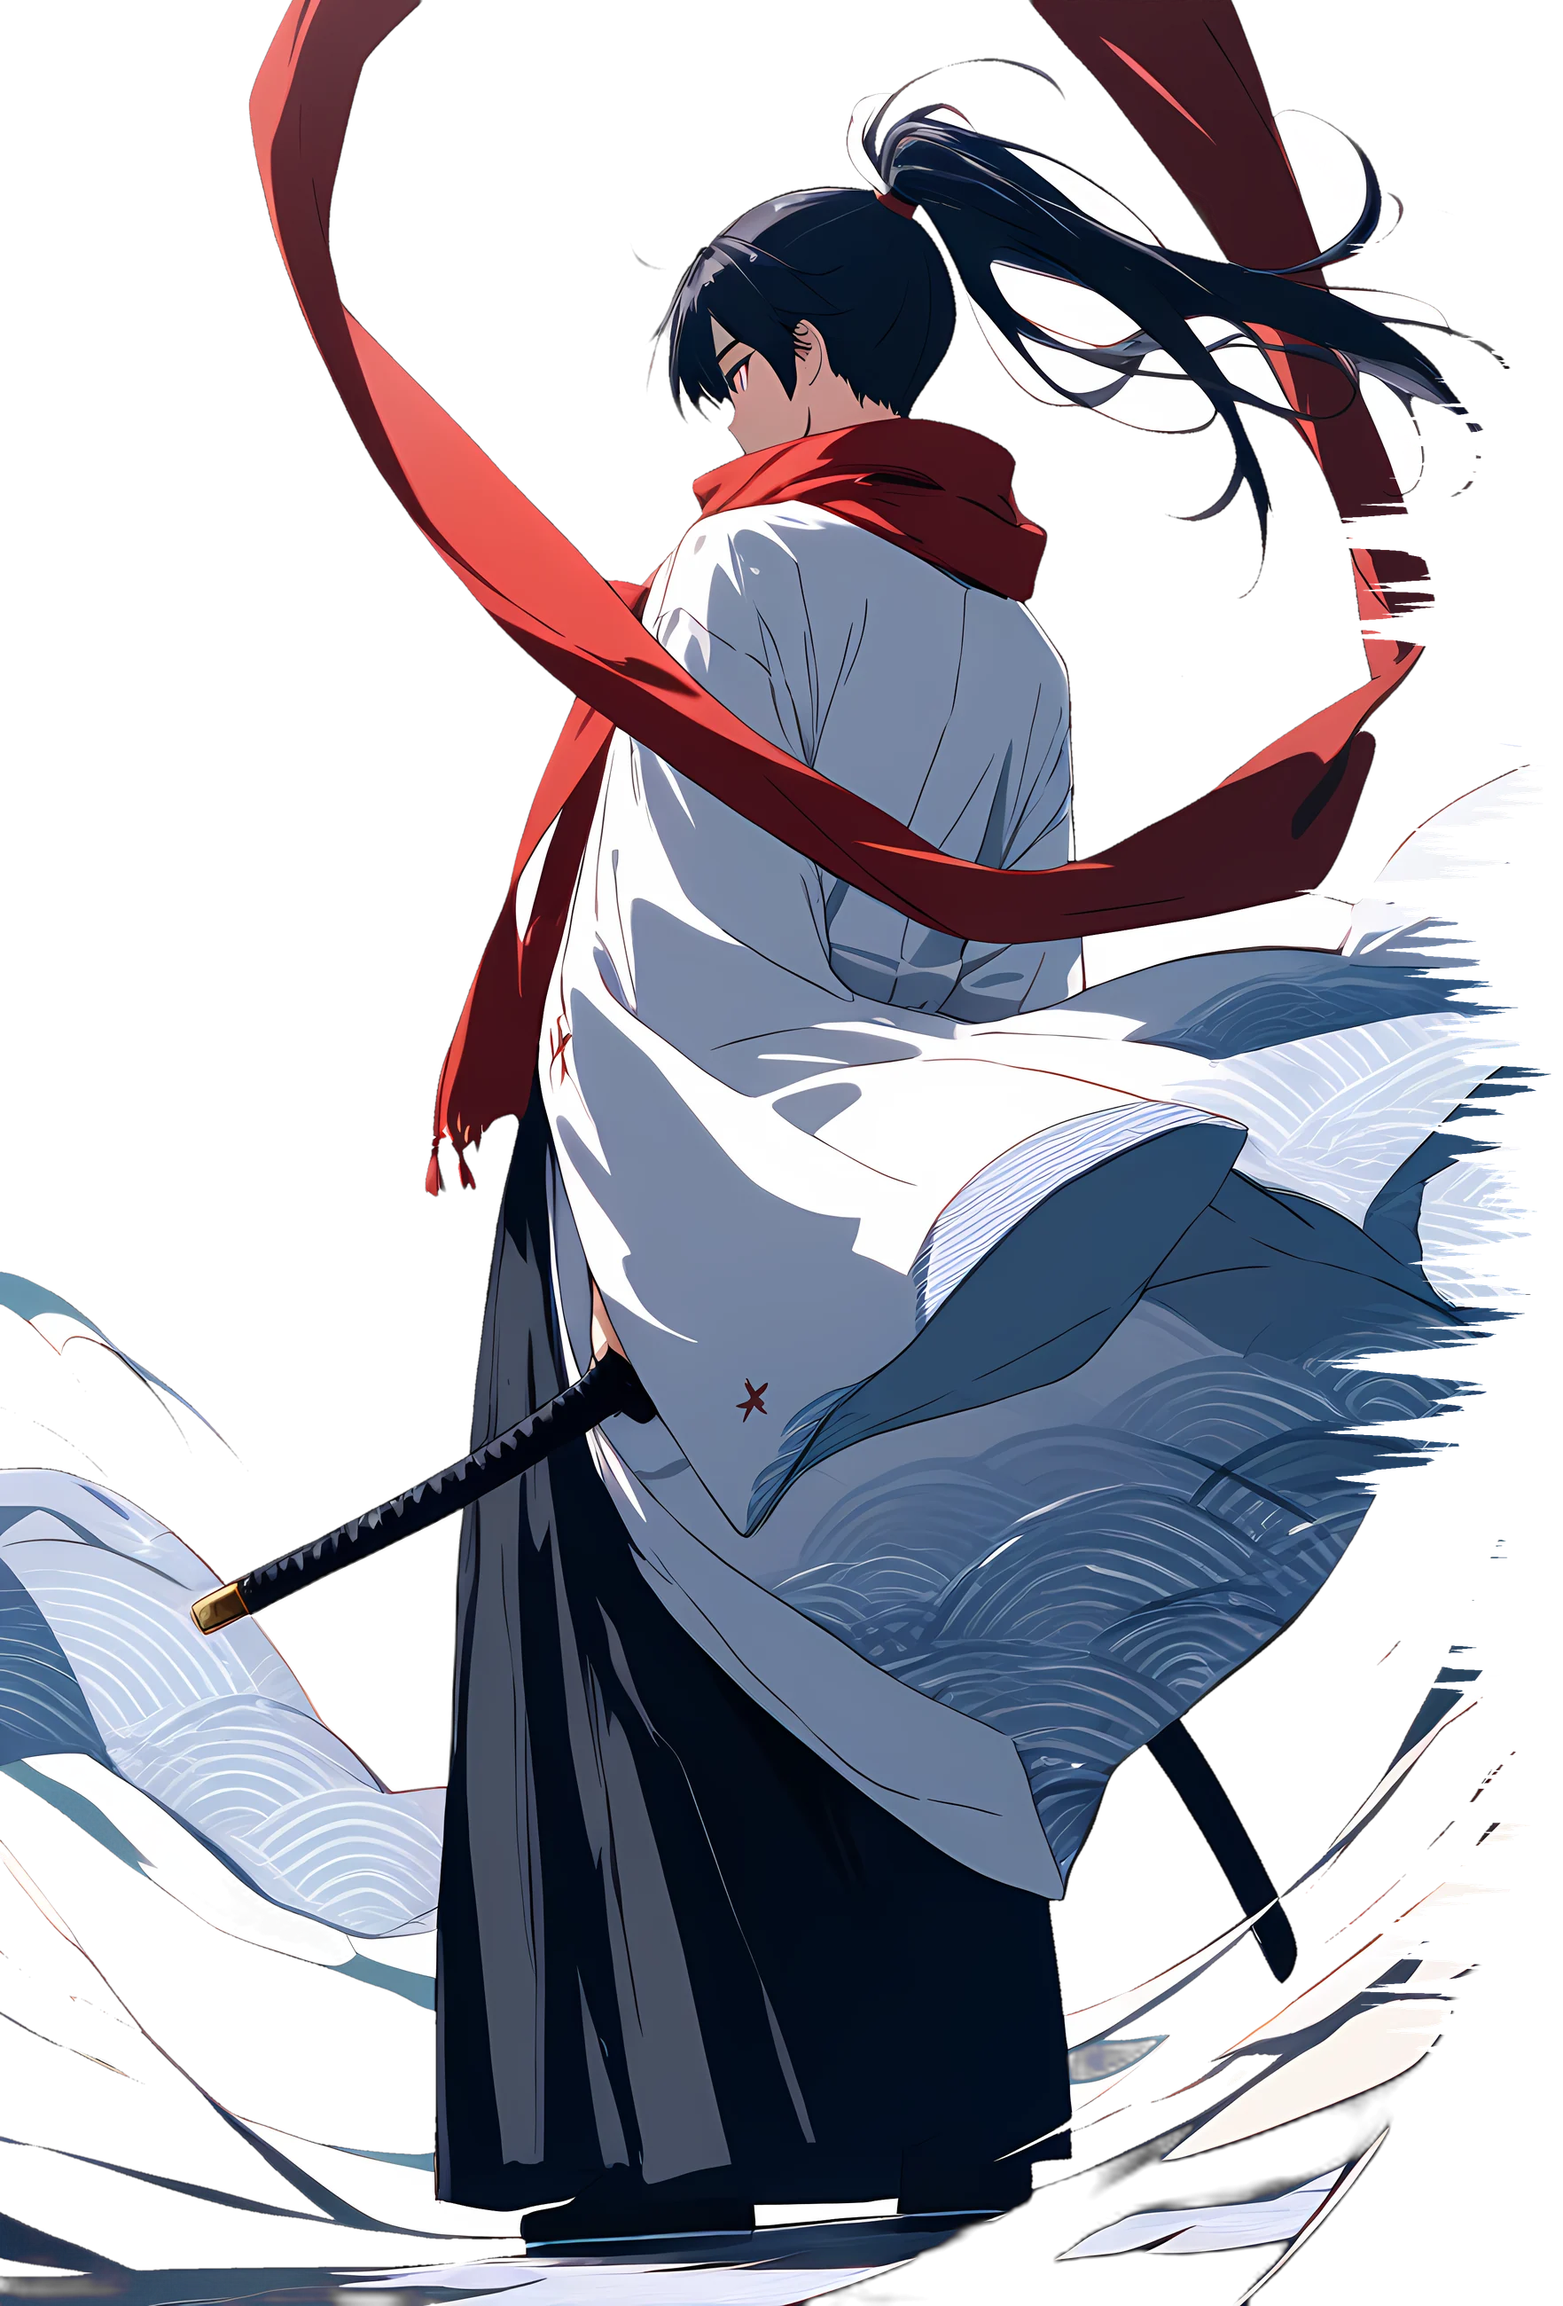
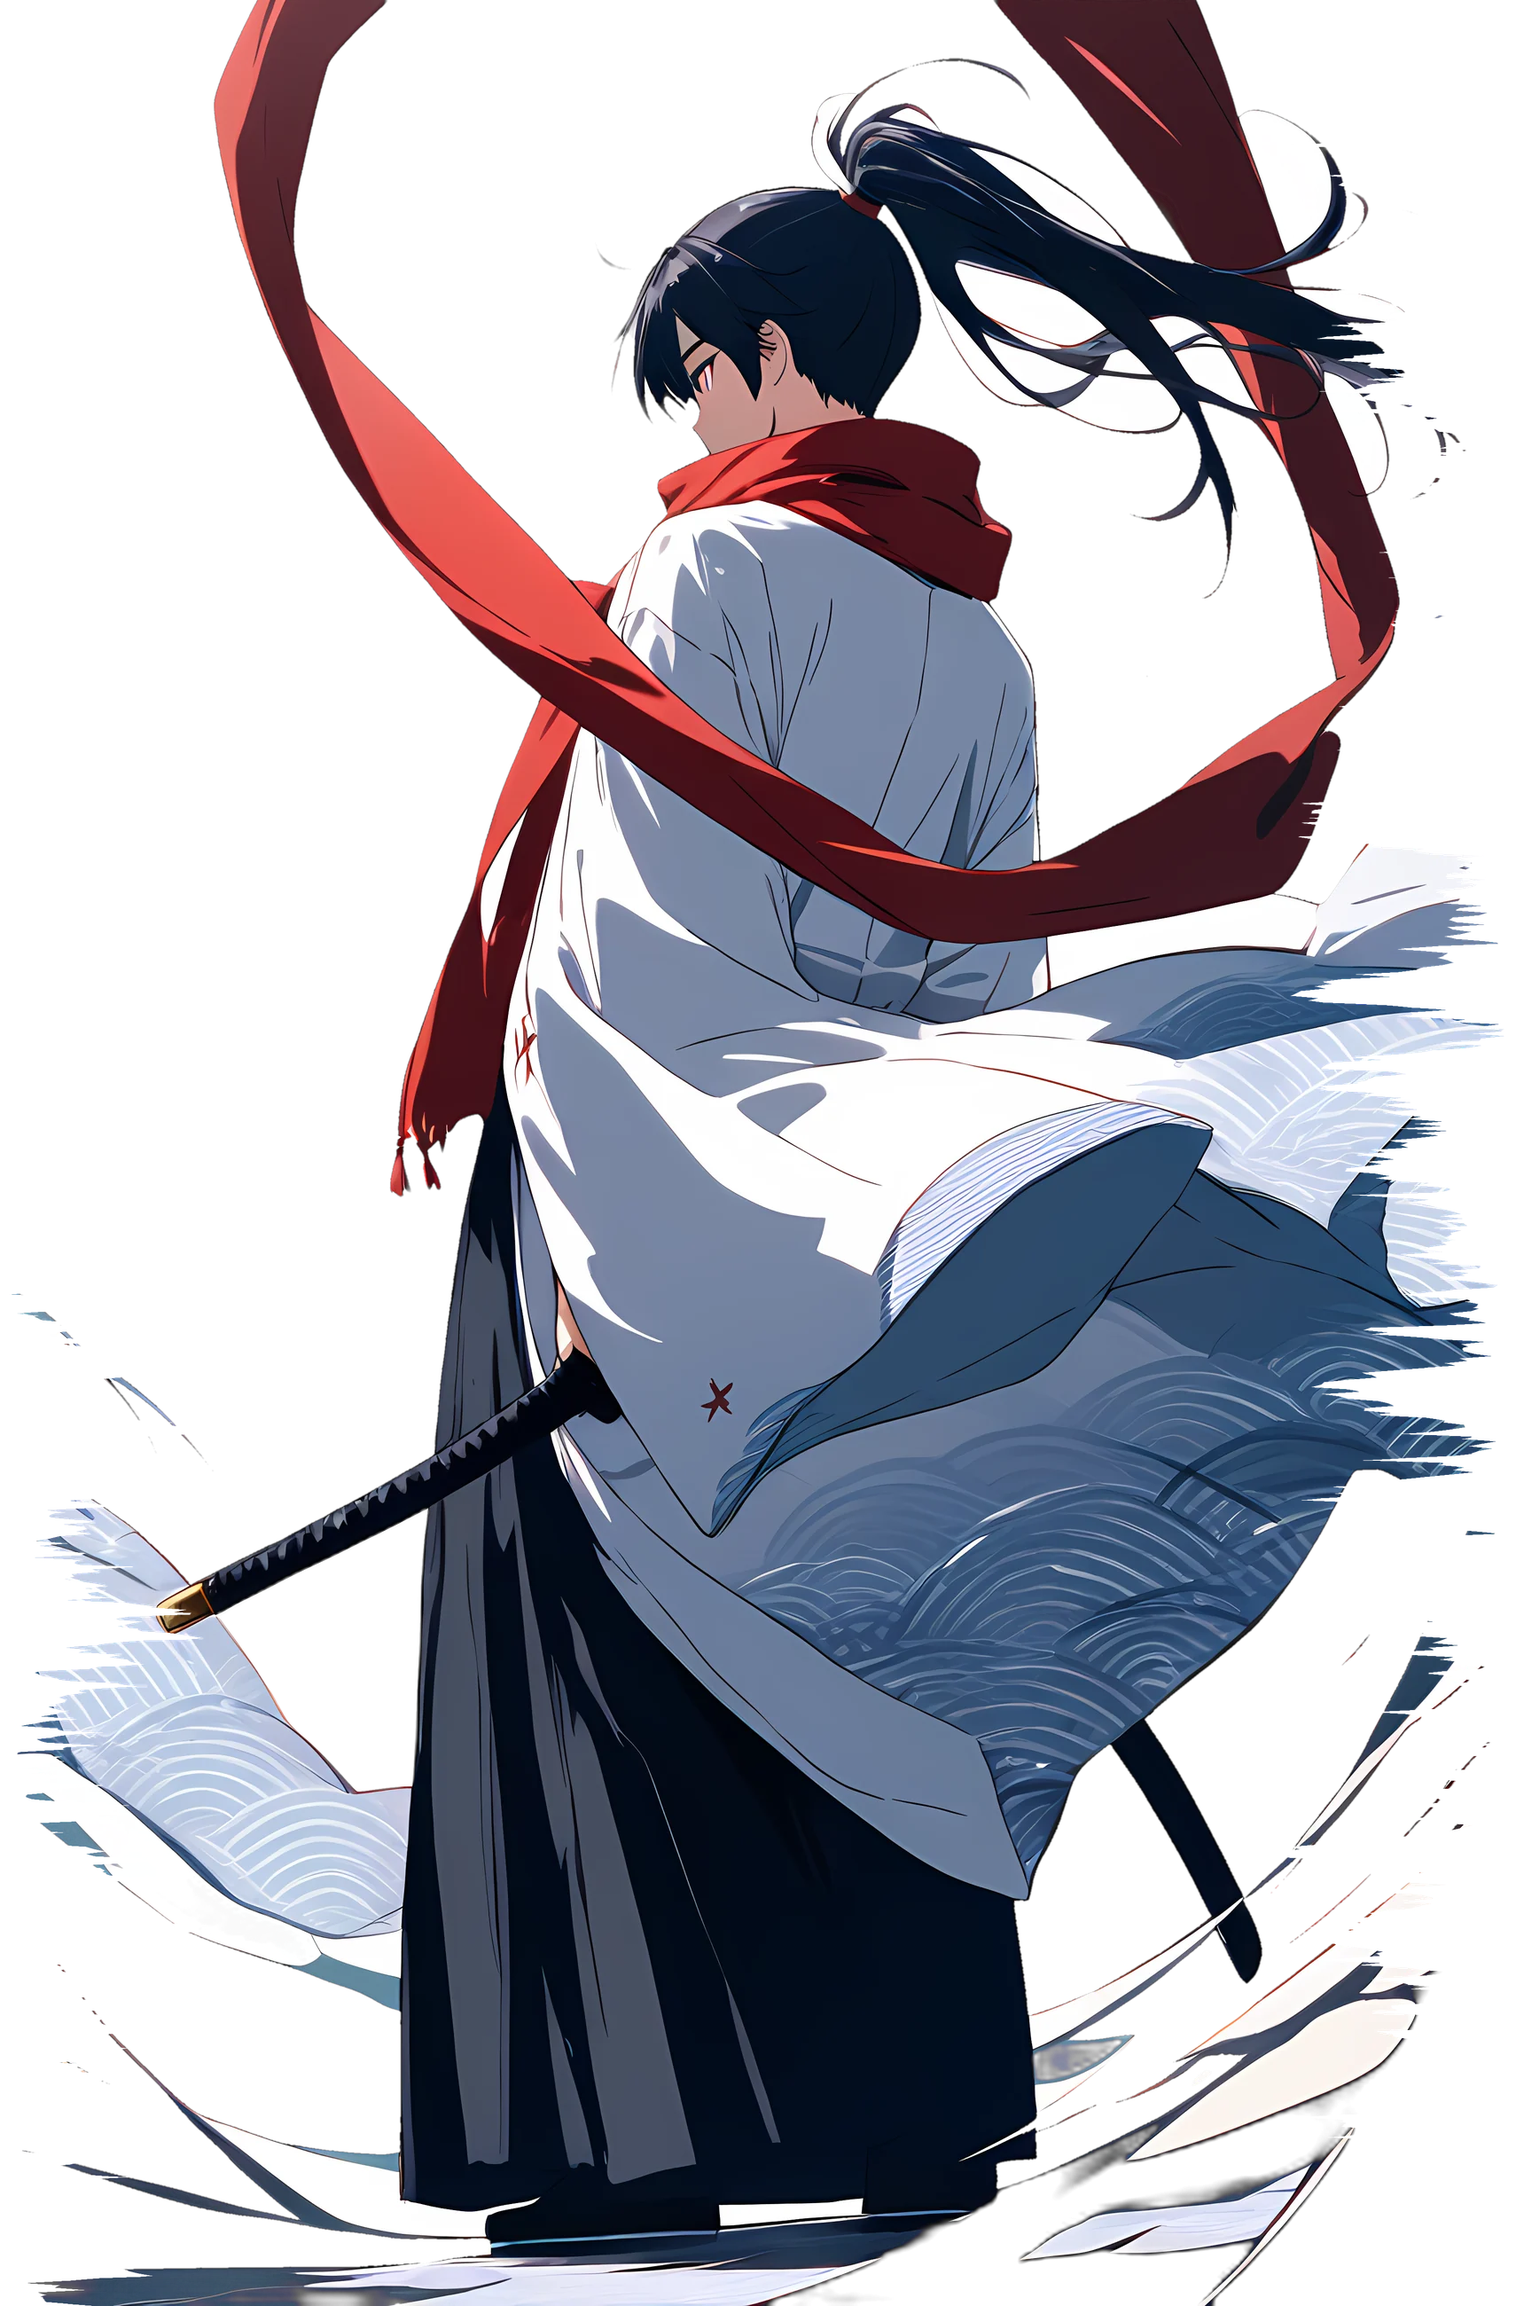
Give the oni its sky and the fire title its own column

diff --git a/src/style.css b/src/style.css
@@ -102,6 +102,7 @@ main { position: relative; z-index: 1; }
 .cel { position: absolute; inset: 0; clip-path: polygon(9% 0, 100% 0, 91% 100%, 0 100%); background: var(--ink); }
 .cel::after { content: ''; position: absolute; inset: 0; background: var(--ink); clip-path: polygon(evenodd, 9% 0, 100% 0, 91% 100%, 0 100%, 9% 0, calc(9% + 6px) 8px, calc(100% - 9px) 8px, calc(91% - 6px) calc(100% - 8px), 9px calc(100% - 8px), calc(9% + 6px) 8px); }
 .cel img { position: absolute; inset: -2% -8%; width: 116%; height: 104%; object-fit: cover; object-position: 50% 20%; will-change: transform; }
+.panel:first-child > b { right: auto; left: -1.5vw; }
 .panel:first-child img { object-position: 50% 92%; }
 .panel > b { position: absolute; right: -4vw; top: -5vh; font: 400 clamp(110px, 25vh, 320px)/.95 'Yuji Boku', serif; writing-mode: vertical-rl; color: #fff; paint-order: stroke; -webkit-text-stroke: 14px var(--ink); z-index: 2; will-change: transform; letter-spacing: -.06em; }
 .cap { position: absolute; left: -3vw; bottom: 5vh; z-index: 3; will-change: transform; }
@@ -115,7 +116,7 @@ main { position: relative; z-index: 1; }
 .g4 { color: #fff; font-size: clamp(48px, 10vw, 210px); text-shadow: .04em .05em 0 #3a030c; }
 
 /* ── five ── */
-.oni-t1 { position: absolute; left: var(--pad); bottom: 19vh; font-size: clamp(50px, 9.4vw, 200px); letter-spacing: -.02em; text-shadow: .035em .045em 0 #2a0207; transform-origin: 0 100%; }
+.oni-t1 { position: absolute; left: var(--pad); top: 17vh; font-size: clamp(50px, 8vw, 170px); letter-spacing: -.02em; text-shadow: .035em .045em 0 #2a0207; transform-origin: 0 0; }
 .versus { position: absolute; inset: 0; }
 .vs { position: absolute; inset: 0; overflow: hidden; will-change: transform; }
 .vs img { width: 100%; height: 100%; object-fit: cover; }
@@ -134,8 +135,8 @@ main { position: relative; z-index: 1; }
 .heat label { font: 400 24px/1 var(--display); }
 
 /* ── seven ── */
-.dawn-t { position: absolute; left: var(--pad); top: 14vh; font-size: clamp(44px, min(7.4vw, 13vh), 170px); letter-spacing: -.025em; color: #fff; text-shadow: .035em .045em 0 #b3261e; }
-.oath { position: absolute; left: var(--pad); bottom: 11vh; width: min(420px, calc(100vw - 2 * var(--pad))); background: #fff; color: var(--ink); padding: 26px 30px 28px; display: grid; gap: 18px; justify-items: start; box-shadow: 10px 12px 0 var(--red); border: 4px solid var(--ink); visibility: hidden; }
+.dawn-t { position: absolute; left: var(--pad); top: 12.5vh; font-size: clamp(44px, min(7vw, 12vh), 170px); letter-spacing: -.025em; color: #fff; text-shadow: .035em .045em 0 #b3261e; }
+.oath { position: absolute; left: var(--pad); bottom: 8vh; width: min(420px, calc(100vw - 2 * var(--pad))); background: #fff; color: var(--ink); padding: 26px 30px 28px; display: grid; gap: 18px; justify-items: start; box-shadow: 10px 12px 0 var(--red); border: 4px solid var(--ink); visibility: hidden; }
 .oath h3 { font-size: 34px; }
 .oath > :is(sakuga-input, sakuga-radio, sakuga-checkbox) { zoom: 1.15; }
 .oath-go { display: flex; gap: 18px; align-items: center; }
@@ -171,7 +172,8 @@ footer { position: relative; z-index: 2; background: var(--red); color: #fff; ov
   .forms-tabs { zoom: 1; bottom: 56px; }
   .track { top: 19vh; bottom: 19vh; gap: 16vw; }
   .panel { width: 80vw; }
-  .panel:first-child img { object-position: 50% 92%; }
+  .panel:first-child > b { right: auto; left: -1.5vw; }
+.panel:first-child img { object-position: 50% 92%; }
 .panel > b { font-size: 19vh; right: -5vw; -webkit-text-stroke-width: 9px; }
   .cap { left: -4vw; }
   .cap h3 { font-size: 11vw; }

diff --git a/index.html b/index.html
@@ -94,7 +94,7 @@
 
     <section id="fire" class="act" style="--len: 460">
       <div class="pin">
-        <h2 class="fire-t">Move water fast enough<br />and it burns.</h2>
+        <h2 class="fire-t">Move water<br />fast enough<br />and it burns.</h2>
         <div class="heat">
           <label id="heat-l">Heat the blade</label>
           <sakuga-slider value="35" label="Blade heat" unit="°"></sakuga-slider>
